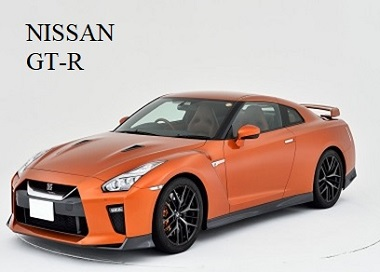
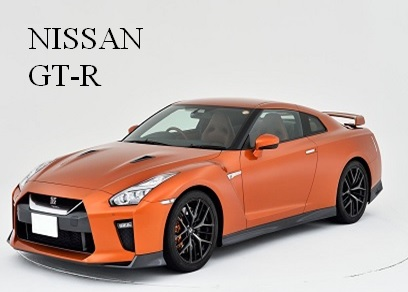
フォーム入力制限追加

diff --git a/src/main/resources/templates/balance.html b/src/main/resources/templates/balance.html
@@ -40,9 +40,9 @@
 		<h1 class="page-header text-center">家計情報を入力してください</h1>
 		<br> <br>
 
-<!-- <div class=row> -->
-<!-- 			<div class="jumbotron text-center" -->
-<!-- 				style="background: url(https://i2.wp.com/kokohen-pachinko.com/wp-content/uploads/2018/04/19d0376b1043311681b5d1bd003a1bde.jpg?fit=300%2C300&ssl=1); color: #FFF; backgroud-size: 100% auto;"> -->
+		<!-- <div class=row> -->
+		<!-- 			<div class="jumbotron text-center" -->
+		<!-- 				style="background: url(https://i2.wp.com/kokohen-pachinko.com/wp-content/uploads/2018/04/19d0376b1043311681b5d1bd003a1bde.jpg?fit=300%2C300&ssl=1); color: #FFF; backgroud-size: 100% auto;"> -->
 
 
 
@@ -66,9 +66,8 @@
 							<label class="col-sm-2 control-label"><h2>月収</h2></label>
 							<div class="col-sm-10">
 								<h2>
-									<input type="text" required step="0.01" name="income"
-										maxlength="3" size="20" value="20" placeholder="月収">
-									万円
+									<input type="number" required step="0.01" name="income"
+										max="100" value="20" placeholder="月収" style="width:350px;"> 万円
 								</h2>
 							</div>
 						</div>
@@ -78,10 +77,10 @@
 					<div class="row">
 						<div class="form-group">
 							<label class="col-sm-2 control-label"><h2>家賃</h2></label>
-							<div class="col-sm-20">
+							<div class="col-sm-10">
 								<h2>
-									<input type="text" required step="0.01" maxlength="4" name="rent" value="6"
-										placeholder="家賃" /> 万円
+									<input type="number" required step="0.01" max="100" name="rent"
+										value="6" placeholder="家賃"  style="width:350px;"> 万円
 								</h2>
 							</div>
 						</div>
@@ -93,10 +92,10 @@
 							<label class="col-sm-2 control-label"><h2>光熱費</h2></label>
 							<div class="col-sm-10">
 								<h2>
-									<input type="text" required step="0.01" maxlength="4" name="utility_c"
-										value="1" placeholder="光熱費" /> 万円
+									<input type="number" required step="0.01" max="20"
+										name="utility_c" value="1" placeholder="光熱費" style="width:350px;"> 万円
 								</h2>
-								<br>
+
 							</div>
 						</div>
 					</div>
@@ -106,78 +105,79 @@
 							<label class="col-sm-2 control-label"><h2>通信費</h2></label>
 							<div class="col-sm-10">
 								<h2>
-									<input type="text" required step="0.01" maxlength="4" name="commu_c"
-										value="0.5" placeholder="通信費" /> 万円
+									<input type="number" required step="0.01" max="20"
+										name="commu_c" value="0.5" placeholder="通信費" style="width:350px;"> 万円
 								</h2>
-								<br>
+
 							</div>
 						</div>
 					</div>
 
 
-<div class="row">
-					<div class="form-group">
-						<label class="col-sm-2 control-label"><h2>交際費</h2></label>
-						<div class="col-sm-10"></div>
-						<h2>
-							<input type="text" required step="0.01" name="expense_c" maxlength="4"
-								value="1.5" placeholder="交際費" /> 万円
-						</h2>
-						<br>
+					<div class="row">
+						<div class="form-group">
+							<label class="col-sm-2 control-label"><h2>交際費</h2></label>
+							<div class="col-sm-10">
+								<h2>
+									<input type="number" required step="0.01" name="expense_c"
+										max="100" value="1.5" placeholder="交際費"  style="width:350px;"> 万円
+								</h2>
+							</div>
+						</div>
 					</div>
+
+					<br> <br> <br> <br> <input type="hidden"
+						name="car_id" th:value="${car_id}" />
+
+
+					<div class="col-sm-offset-4 col-sm-8">
+						<input class="btn btn-primary btn btn-lg " type="submit"
+							value="送信">
+					</div>
+					<!--  	<input type="button" class="btn btn-primary" value="送信"> -->
+					<!--  	 <input type="submit" value = 送信> -->
 			</div>
 
-			<br> <br> <br> <br> <input type="hidden"
-				name="car_id" th:value="${car_id}" />
-
-
-			<div class="col-sm-offset-4 col-sm-8">
-				<input class="btn btn-primary btn btn-lg " type="submit" value="送信">
-			</div>
-			<!--  	<input type="button" class="btn btn-primary" value="送信"> -->
-			<!--  	 <input type="submit" value = 送信> -->
 		</div>
 
-	</div>
 
 
 
 
 
 
-
-	</form>
-
-
-
-	<!-- <form method="post" th:action="@{/balance}">　user情報取得　usespec TABLEへ -->
-
-
-	<!-- 	<p>名前</p> -->
-	<!-- 	<input type="text" required name="user_name" placeholder="お名前を入力してください" >万円 -->
-
-	<!-- 	<p>月収</p> -->
-	<!-- 	<input type="number" required step="0.01" name="income" placeholder="月収" >万円 -->
-	<!--  	 <p>家賃</p> -->
-	<!--  	 <input type="number" required step="0.01" name="rent" placeholder="家賃" />万円 -->
-
-	<!-- 	<p>光熱費</p> -->
-	<!-- 	<input type="number" required step="0.01" name="utility_c" placeholder="光熱費" />万円<br> -->
-
-	<!--  	<p>通信費</p> -->
-	<!--  	<input type="number" required step="0.01" name="commu_c" placeholder="通信費" />万円<br> -->
-
-	<!--  	<p>交際費</p> -->
-	<!--  	<input type="number" required step="0.01" name="expense_c" placeholder="交際費" />万円<br> -->
-
-
-	<!--  	 <input type="hidden" name="car_id" th:value="${car_id}"/>  -->
-
-	<!--  	 <input type="submit" value = 送信> -->
+		</form>
 
 
 
-	<!-- </form> -->
+		<!-- <form method="post" th:action="@{/balance}">　user情報取得　usespec TABLEへ -->
+
+
+		<!-- 	<p>名前</p> -->
+		<!-- 	<input type="text" required name="user_name" placeholder="お名前を入力してください" >万円 -->
+
+		<!-- 	<p>月収</p> -->
+		<!-- 	<input type="number" required step="0.01" name="income" placeholder="月収" >万円 -->
+		<!--  	 <p>家賃</p> -->
+		<!--  	 <input type="number" required step="0.01" name="rent" placeholder="家賃" />万円 -->
+
+		<!-- 	<p>光熱費</p> -->
+		<!-- 	<input type="number" required step="0.01" name="utility_c" placeholder="光熱費" />万円<br> -->
+
+		<!--  	<p>通信費</p> -->
+		<!--  	<input type="number" required step="0.01" name="commu_c" placeholder="通信費" />万円<br> -->
+
+		<!--  	<p>交際費</p> -->
+		<!--  	<input type="number" required step="0.01" name="expense_c" placeholder="交際費" />万円<br> -->
+
+
+		<!--  	 <input type="hidden" name="car_id" th:value="${car_id}"/>  -->
+
+		<!--  	 <input type="submit" value = 送信> -->
+
+
+
+		<!-- </form> -->
 
 
 	</div>

diff --git a/src/main/resources/templates/cost.html b/src/main/resources/templates/cost.html
@@ -44,23 +44,25 @@
 			<div class="row">
 				<div class="form-group">
 
+					<div class="col-sm-offset-2 col-sm-10">
+						<div class="text-center">
+							<a href="https://www.athome.co.jp/rent/02/" target="_blank"><h3>月極駐車場を探す</h3></a>
+						</div>
+					</div>
 					<label class="col-sm-5 control-label"><h2>駐車場代</h2></label>
 					<div class="col-sm-7">
 						<h2>
-							<input type="text" required step="0.01" name="parking"
-								maxlength="4" max="10" placeholder="駐車場代">万円
+							<input type="number" required step="0.01" name="parking"
+								maxlength="4" max="10" placeholder="駐車場代" style="width: 350px;">万円
 
 
 						</h2>
+						<p class="help-block">※駐車場を借りない場合は0を入力してください</p>
 					</div>
 				</div>
 			</div>
-			
-			<div class="col-sm-offset-2 col-sm-10">
-				<div class="text-center">
-					<a href="https://www.athome.co.jp/rent/02/" target="_blank"><h3>月極駐車場を探す</h3></a>
-				</div>
-			</div>
+
+
 
 
 
@@ -71,8 +73,9 @@
 					<label class="col-sm-5 control-label"><h2>月間走行距離</h2></label>
 					<div class="col-sm-7">
 						<h2>
-							<input type="text" required step="0.01" name="running"
-								maxlength="4" placeholder="走行距離">km
+							<input type="number" min="10" max="8000" required step="0.01"
+								name="running" maxlength="4" placeholder="走行距離"
+								style="width: 350px;">km
 						</h2>
 					</div>
 				</div>
@@ -87,8 +90,9 @@
 							<!-- 車種別の価格を持ってきてそれ以上の値が頭金のフォームに入力されないようにする -->
 							<!--								<input type="text" required name="deposit" 
 									max="th:text="${a}"" placeholder="頭金">万円 -->
-							<input type="number" required maxlength="3" name="deposit" max="10"
-								th:max="${car_p}" placeholder="頭金">万円
+							<input type="number" required maxlength="3" name="deposit"
+								max="10" th:max="${car_p}" placeholder="頭金"
+								style="width: 350px;">万円
 						</h2>
 						<br>
 					</div>
@@ -101,12 +105,13 @@
 					<label class="col-sm-5 control-label"><h2>ローン</h2></label>
 					<div class="col-sm-7">
 						<h2>
-							<input type="text" maxlength="2" required name="loan"
-								placeholder="(組まない場合は0を入力)">回払い
-							<p class="help-block">
-							<h3>※ローンを組まない場合は0を入力してください</h3>
-							</p>
+							<input type="number" min="1" max="72" required name="loan"
+								placeholder="(支払い回数)" style="width: 350px;">回払い
 						</h2>
+						<p class="help-block">※ローンを組まない場合は1を入力してください</p>
+
+
+
 						<br>
 
 					</div>

diff --git a/src/main/resources/templates/index.html b/src/main/resources/templates/index.html
@@ -99,19 +99,6 @@
 
 
 
-
-
-
-
-
-
-
-
-
-
-
-
-
 		<div class="row">
 
 			<div class="col-sm-4">
@@ -152,7 +139,7 @@
 
 				<div style="width: 403px; height: 274px; border: solid 1px #333333;">
 
-					<a th:href="@{/balance/2}"><IMG SRC="wwgtr.jpg"
+					<a th:href="@{/balance/2}"><IMG SRC="wgtrw1.jpg"
 						class="img-responsive center-block"></a></img>
 
 				</div>

diff --git a/src/main/resources/templates/unpurchasable.html b/src/main/resources/templates/unpurchasable.html
@@ -214,7 +214,7 @@
 							<h3>
 								<li>中古車なら購入可能かも！？</li>
 							</h3>
-							<a th:href="${url}" class="btn btn-warning btn-lg" role="button"><span
+							<a th:href="${url}" class="btn btn-warning btn-lg" role="button" target="_blank"><span
 								th:text="${car_name}"></span>の中古車情報を見る</a>
 
 							<h3>
